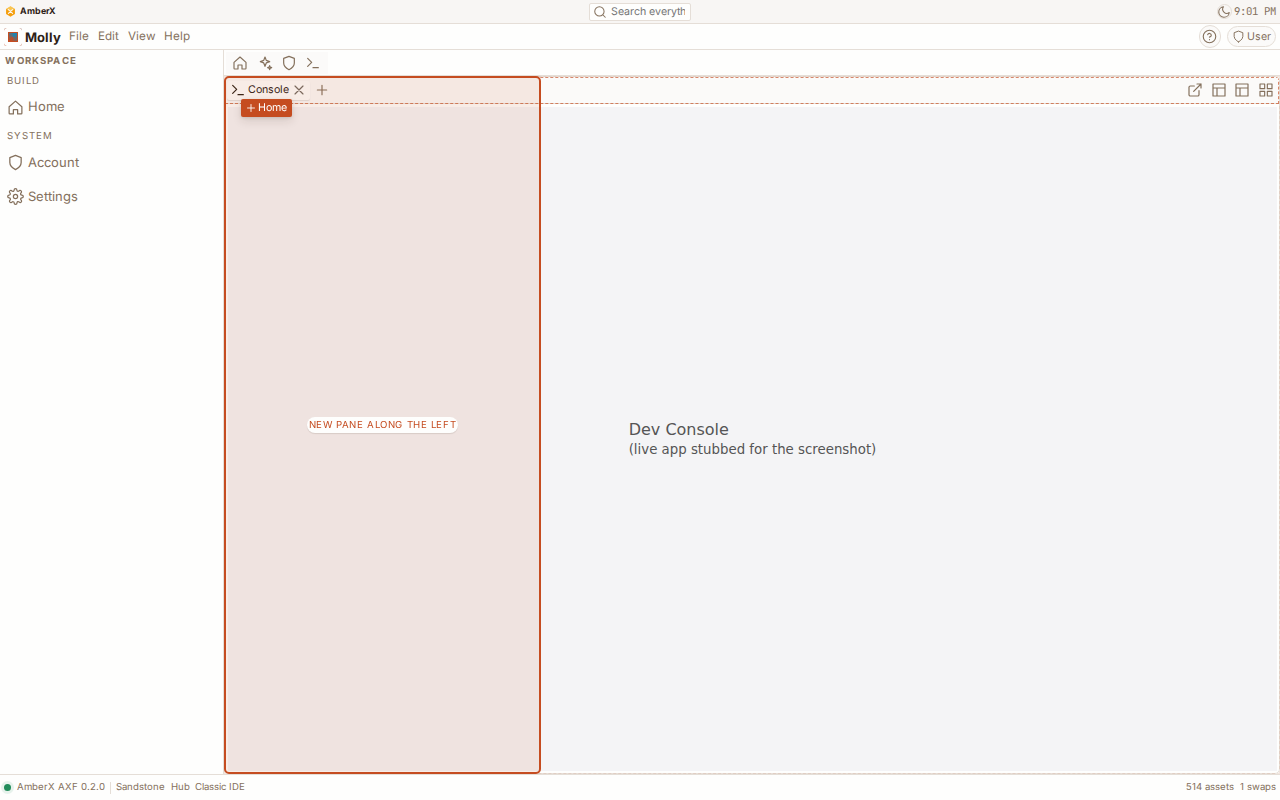
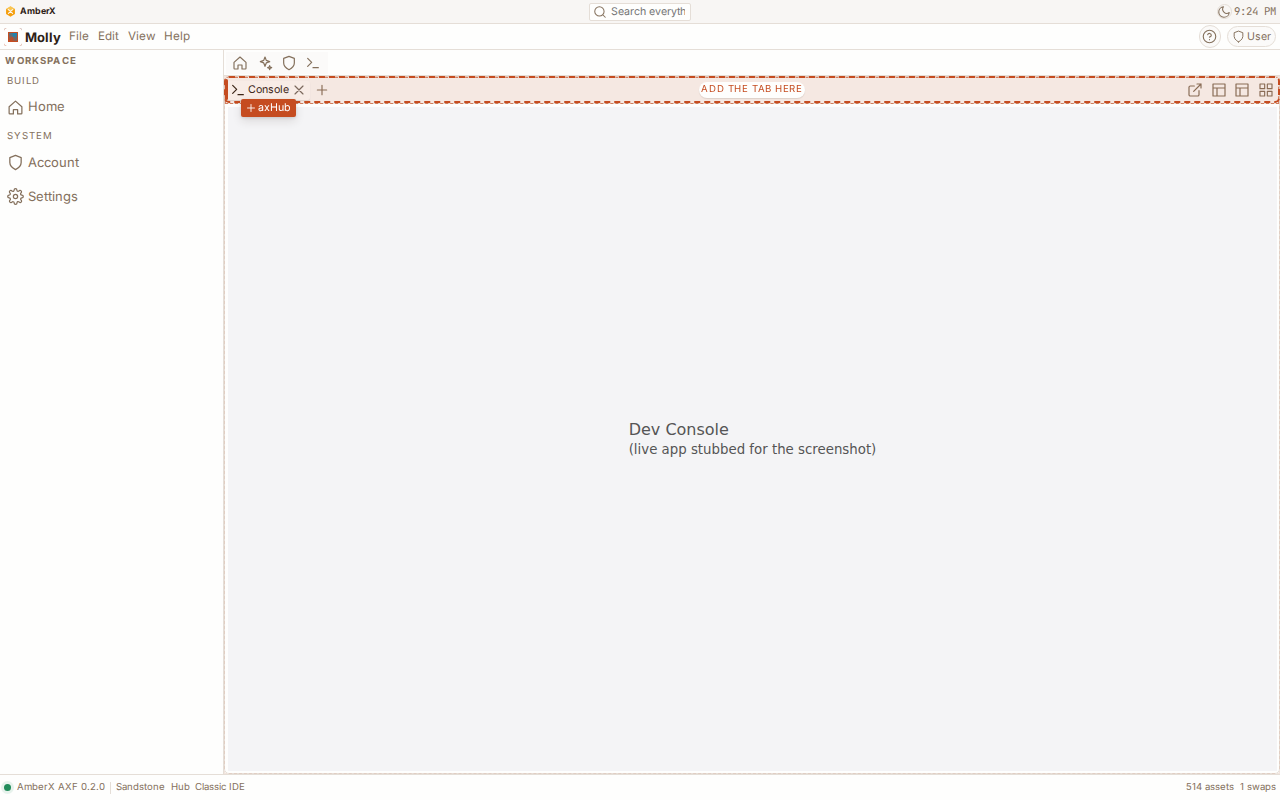
Drag to tab: Molly app launchers drag too; touch hold on a source skips the generic menu; popped-out windows stay on screen

Changed region(s): [[0.5312, 0.0938, 0.625, 0.125], [0.25, 0.5312, 0.3438, 0.5625], [0.1875, 0.125, 0.25, 0.1562]]

diff --git a/apps/molly/plugins/xlayout/web/toolbars.tsx b/apps/molly/plugins/xlayout/web/toolbars.tsx
@@ -9,8 +9,8 @@
 import { useSyncExternalStore, type ReactNode } from 'react';
 import type { AxfRuntime } from '../../../src/axf/core';
 import { openTargetFor, splitNs, TOOLBAR_LOCATIONS, TOOLBAR_SLOT_COUNT, visibleToolbars, type ToolbarLocation, type XToolbarItem } from '../../../src/axf/core/engines/xlayout';
-import { Icon, useAxfState, useRuntime } from '../../../src/axf/react';
-import { MOLLY_APPS } from '../../../src/molly/apps';
+import { Icon, useAxfState, useDragToTab, useRuntime, type DragToTabSource } from '../../../src/axf/react';
+import { MOLLY_APPS, mollyApp } from '../../../src/molly/apps';
 import { appOfView } from '../../../src/molly/host';
 import type { ChromeHost } from './host';
 import { effectiveXLayout } from './model';
@@ -69,9 +69,11 @@ export function runToolbarItem(rt: AxfRuntime, host: ChromeHost, item: XToolbarI
 
 /* ---------- drawing ---------- */
 
-function Btn({ icon, label, badge, pressed, locked, onClick }: { icon: string; label: string; badge?: number; pressed?: boolean; locked?: boolean; onClick: () => void }) {
+function Btn({ icon, label, badge, pressed, locked, onClick, drag }: { icon: string; label: string; badge?: number; pressed?: boolean; locked?: boolean; onClick: () => void; drag?: DragToTabSource | null }) {
+  // drag-to-tab: an app launcher drags into a pane's strip, a pane's edge or out to a window (its next copy when open)
+  const dragProps = useDragToTab(locked ? null : drag ?? null);
   return (
-    <button type="button" className={`fx-toolbtn${pressed ? ' is-on' : ''}`} disabled={locked} aria-pressed={pressed === undefined ? undefined : pressed} title={label} aria-label={badge ? `${label} (${badge})` : label} onClick={onClick}>
+    <button type="button" className={`fx-toolbtn${pressed ? ' is-on' : ''}`} disabled={locked} aria-pressed={pressed === undefined ? undefined : pressed} title={label} aria-label={badge ? `${label} (${badge})` : label} onClick={onClick} {...dragProps}>
       <Icon name={locked ? 'lock' : icon} size={16} />
       {!!badge && <span className="fx-toolbtn__badge" aria-hidden="true">{badge > 99 ? '99+' : badge}</span>}
     </button>
@@ -97,7 +99,7 @@ export function ToolbarEdge({ host, location }: { host: ChromeHost; location: To
     if (!t.items.length && !guest.length) continue;
     out.push(
       <Bar key={`x${t.slot}`} location={location} label={t.label} ctx={`xlayout|*|${t.slot}`}>
-        {t.items.map((it) => <Btn key={it.id} icon={it.icon ?? 'box'} label={it.label} onClick={() => runToolbarItem(rt, host, it)} />)}
+        {t.items.map((it) => <Btn key={it.id} icon={it.icon ?? 'box'} label={it.label} onClick={() => runToolbarItem(rt, host, it)} drag={it.app ? { view: it.app, label: mollyApp(it.app)?.label ?? it.label, icon: it.icon } : null} />)}
         {guest.map((g) => (
           <span key={g.id} className="fx-toolbar__group" role="group" aria-label={g.label}>
             {g.items.map((it) => <Btn key={it.id} icon={it.icon} label={it.label} badge={it.badge} pressed={it.pressed} locked={it.locked} onClick={() => host.run(it.id)} />)}

diff --git a/apps/amberx-droid/src/axf/core/engines/windows.ts b/apps/amberx-droid/src/axf/core/engines/windows.ts
@@ -623,8 +623,14 @@ export class WindowManager {
     const tab = from.tabs.find((t) => t.id === tabId)!;
     this.checkpoint(from.windowId);
     this.closeTab(tabId);
-    const at = x !== undefined && y !== undefined ? { x: Math.max(0, Math.round(x - width / 2)), y: Math.max(0, Math.round(y - 16)) } : null;
+    const at = x !== undefined && y !== undefined ? this.floatAt(x, y, width, height) : null;
     return this.openFloating([tab], tab.title, 'floating', width, height, at?.x, at?.y);
+  }
+  /** Where a window popped out under the pointer goes: centred on it, the title under the finger, kept on screen. */
+  floatAt(x: number, y: number, width: number, height: number): { x: number; y: number } {
+    const vp = this.viewport;
+    const fx = Math.round(x - width / 2), fy = Math.round(y - 16);
+    return { x: Math.max(0, vp ? Math.min(fx, vp.width - width) : fx), y: Math.max(0, vp ? Math.min(fy, vp.height - height) : fy) };
   }
   /**
    * The drag ends: a dock drop zone wins, else the group under the point takes the tab (older hosts), else — let go
@@ -672,8 +678,9 @@ export class WindowManager {
       return changed;
     }
     if (!this.dockRules.floatOut) return false;
-    const width = 640, height = 480;
-    this.openFloating([tab], tab.title, 'floating', width, height, Math.max(0, Math.round(x - width / 2)), Math.max(0, Math.round(y - 16)));
+    const width = Math.min(640, this.viewport?.width ?? 640), height = Math.min(480, this.viewport?.height ?? 480);
+    const pos = this.floatAt(x, y, width, height);
+    this.openFloating([tab], tab.title, 'floating', width, height, pos.x, pos.y);
     this.lastDrop = { kind: 'fresh', tabId: tab.id };
     return true;
   }

diff --git a/apps/axhub-web/src/axf/core/engines/windows.ts b/apps/axhub-web/src/axf/core/engines/windows.ts
@@ -623,8 +623,14 @@ export class WindowManager {
     const tab = from.tabs.find((t) => t.id === tabId)!;
     this.checkpoint(from.windowId);
     this.closeTab(tabId);
-    const at = x !== undefined && y !== undefined ? { x: Math.max(0, Math.round(x - width / 2)), y: Math.max(0, Math.round(y - 16)) } : null;
+    const at = x !== undefined && y !== undefined ? this.floatAt(x, y, width, height) : null;
     return this.openFloating([tab], tab.title, 'floating', width, height, at?.x, at?.y);
+  }
+  /** Where a window popped out under the pointer goes: centred on it, the title under the finger, kept on screen. */
+  floatAt(x: number, y: number, width: number, height: number): { x: number; y: number } {
+    const vp = this.viewport;
+    const fx = Math.round(x - width / 2), fy = Math.round(y - 16);
+    return { x: Math.max(0, vp ? Math.min(fx, vp.width - width) : fx), y: Math.max(0, vp ? Math.min(fy, vp.height - height) : fy) };
   }
   /**
    * The drag ends: a dock drop zone wins, else the group under the point takes the tab (older hosts), else — let go
@@ -672,8 +678,9 @@ export class WindowManager {
       return changed;
     }
     if (!this.dockRules.floatOut) return false;
-    const width = 640, height = 480;
-    this.openFloating([tab], tab.title, 'floating', width, height, Math.max(0, Math.round(x - width / 2)), Math.max(0, Math.round(y - 16)));
+    const width = Math.min(640, this.viewport?.width ?? 640), height = Math.min(480, this.viewport?.height ?? 480);
+    const pos = this.floatAt(x, y, width, height);
+    this.openFloating([tab], tab.title, 'floating', width, height, pos.x, pos.y);
     this.lastDrop = { kind: 'fresh', tabId: tab.id };
     return true;
   }

diff --git a/apps/console-web/src/axf/core/engines/windows.ts b/apps/console-web/src/axf/core/engines/windows.ts
@@ -623,8 +623,14 @@ export class WindowManager {
     const tab = from.tabs.find((t) => t.id === tabId)!;
     this.checkpoint(from.windowId);
     this.closeTab(tabId);
-    const at = x !== undefined && y !== undefined ? { x: Math.max(0, Math.round(x - width / 2)), y: Math.max(0, Math.round(y - 16)) } : null;
+    const at = x !== undefined && y !== undefined ? this.floatAt(x, y, width, height) : null;
     return this.openFloating([tab], tab.title, 'floating', width, height, at?.x, at?.y);
+  }
+  /** Where a window popped out under the pointer goes: centred on it, the title under the finger, kept on screen. */
+  floatAt(x: number, y: number, width: number, height: number): { x: number; y: number } {
+    const vp = this.viewport;
+    const fx = Math.round(x - width / 2), fy = Math.round(y - 16);
+    return { x: Math.max(0, vp ? Math.min(fx, vp.width - width) : fx), y: Math.max(0, vp ? Math.min(fy, vp.height - height) : fy) };
   }
   /**
    * The drag ends: a dock drop zone wins, else the group under the point takes the tab (older hosts), else — let go
@@ -672,8 +678,9 @@ export class WindowManager {
       return changed;
     }
     if (!this.dockRules.floatOut) return false;
-    const width = 640, height = 480;
-    this.openFloating([tab], tab.title, 'floating', width, height, Math.max(0, Math.round(x - width / 2)), Math.max(0, Math.round(y - 16)));
+    const width = Math.min(640, this.viewport?.width ?? 640), height = Math.min(480, this.viewport?.height ?? 480);
+    const pos = this.floatAt(x, y, width, height);
+    this.openFloating([tab], tab.title, 'floating', width, height, pos.x, pos.y);
     this.lastDrop = { kind: 'fresh', tabId: tab.id };
     return true;
   }

diff --git a/apps/molly/src/axf/core/engines/windows.ts b/apps/molly/src/axf/core/engines/windows.ts
@@ -623,8 +623,14 @@ export class WindowManager {
     const tab = from.tabs.find((t) => t.id === tabId)!;
     this.checkpoint(from.windowId);
     this.closeTab(tabId);
-    const at = x !== undefined && y !== undefined ? { x: Math.max(0, Math.round(x - width / 2)), y: Math.max(0, Math.round(y - 16)) } : null;
+    const at = x !== undefined && y !== undefined ? this.floatAt(x, y, width, height) : null;
     return this.openFloating([tab], tab.title, 'floating', width, height, at?.x, at?.y);
+  }
+  /** Where a window popped out under the pointer goes: centred on it, the title under the finger, kept on screen. */
+  floatAt(x: number, y: number, width: number, height: number): { x: number; y: number } {
+    const vp = this.viewport;
+    const fx = Math.round(x - width / 2), fy = Math.round(y - 16);
+    return { x: Math.max(0, vp ? Math.min(fx, vp.width - width) : fx), y: Math.max(0, vp ? Math.min(fy, vp.height - height) : fy) };
   }
   /**
    * The drag ends: a dock drop zone wins, else the group under the point takes the tab (older hosts), else — let go
@@ -672,8 +678,9 @@ export class WindowManager {
       return changed;
     }
     if (!this.dockRules.floatOut) return false;
-    const width = 640, height = 480;
-    this.openFloating([tab], tab.title, 'floating', width, height, Math.max(0, Math.round(x - width / 2)), Math.max(0, Math.round(y - 16)));
+    const width = Math.min(640, this.viewport?.width ?? 640), height = Math.min(480, this.viewport?.height ?? 480);
+    const pos = this.floatAt(x, y, width, height);
+    this.openFloating([tab], tab.title, 'floating', width, height, pos.x, pos.y);
     this.lastDrop = { kind: 'fresh', tabId: tab.id };
     return true;
   }

diff --git a/framework/core/engines/windows.ts b/framework/core/engines/windows.ts
@@ -623,8 +623,14 @@ export class WindowManager {
     const tab = from.tabs.find((t) => t.id === tabId)!;
     this.checkpoint(from.windowId);
     this.closeTab(tabId);
-    const at = x !== undefined && y !== undefined ? { x: Math.max(0, Math.round(x - width / 2)), y: Math.max(0, Math.round(y - 16)) } : null;
+    const at = x !== undefined && y !== undefined ? this.floatAt(x, y, width, height) : null;
     return this.openFloating([tab], tab.title, 'floating', width, height, at?.x, at?.y);
+  }
+  /** Where a window popped out under the pointer goes: centred on it, the title under the finger, kept on screen. */
+  floatAt(x: number, y: number, width: number, height: number): { x: number; y: number } {
+    const vp = this.viewport;
+    const fx = Math.round(x - width / 2), fy = Math.round(y - 16);
+    return { x: Math.max(0, vp ? Math.min(fx, vp.width - width) : fx), y: Math.max(0, vp ? Math.min(fy, vp.height - height) : fy) };
   }
   /**
    * The drag ends: a dock drop zone wins, else the group under the point takes the tab (older hosts), else — let go
@@ -672,8 +678,9 @@ export class WindowManager {
       return changed;
     }
     if (!this.dockRules.floatOut) return false;
-    const width = 640, height = 480;
-    this.openFloating([tab], tab.title, 'floating', width, height, Math.max(0, Math.round(x - width / 2)), Math.max(0, Math.round(y - 16)));
+    const width = Math.min(640, this.viewport?.width ?? 640), height = Math.min(480, this.viewport?.height ?? 480);
+    const pos = this.floatAt(x, y, width, height);
+    this.openFloating([tab], tab.title, 'floating', width, height, pos.x, pos.y);
     this.lastDrop = { kind: 'fresh', tabId: tab.id };
     return true;
   }

diff --git a/apps/amberx-droid/src/axf/react/components/Overlays.tsx b/apps/amberx-droid/src/axf/react/components/Overlays.tsx
@@ -187,6 +187,7 @@ export function ContextMenuHost() {
     const onCtx = (e: MouseEvent) => {
       // A touch long-press also fires the browser's own contextmenu: the long-press timer handles it, once.
       if (start) { e.preventDefault(); return; }
+      if (srcHold) { srcHold = false; e.preventDefault(); return; }
       const t = e.target as Element;
       // A banner (outside the shell, in a box that otherwise ignores the menu) is always a target: Banner settings.
       const banner = !!t.closest('[data-fx-ctx-target="axf-banner"], [data-fx-ctx-target="banner"]') && !t.closest('input, textarea, .fx-ctx');
@@ -200,7 +201,12 @@ export function ContextMenuHost() {
     // Long-press for touch devices
     let timer: ReturnType<typeof setTimeout> | undefined;
     let start: { x: number; y: number } | null = null;
+    let srcHold = false;
     const onDown = (e: PointerEvent) => {
+      // a drag-to-tab source runs its own hold (then drag, or its menu when let go in place: react/windows/dragToTab.ts),
+      // and the browser's contextmenu that hold fires is not this one's either
+      srcHold = e.pointerType === 'touch' && !!(e.target as Element | null)?.closest?.('[data-fx-tab-source]');
+      if (srcHold) return;
       if (e.pointerType !== 'touch' || (rt.slotHidden('context-menu') && !rt.hostTakes('context-menu'))) return;
       const t = e.target as Element;
       const banner = !!t.closest('[data-fx-ctx-target="axf-banner"], [data-fx-ctx-target="banner"]') && !t.closest('input, textarea, .fx-ctx');

diff --git a/apps/axhub-web/src/axf/react/components/Overlays.tsx b/apps/axhub-web/src/axf/react/components/Overlays.tsx
@@ -187,6 +187,7 @@ export function ContextMenuHost() {
     const onCtx = (e: MouseEvent) => {
       // A touch long-press also fires the browser's own contextmenu: the long-press timer handles it, once.
       if (start) { e.preventDefault(); return; }
+      if (srcHold) { srcHold = false; e.preventDefault(); return; }
       const t = e.target as Element;
       // A banner (outside the shell, in a box that otherwise ignores the menu) is always a target: Banner settings.
       const banner = !!t.closest('[data-fx-ctx-target="axf-banner"], [data-fx-ctx-target="banner"]') && !t.closest('input, textarea, .fx-ctx');
@@ -200,7 +201,12 @@ export function ContextMenuHost() {
     // Long-press for touch devices
     let timer: ReturnType<typeof setTimeout> | undefined;
     let start: { x: number; y: number } | null = null;
+    let srcHold = false;
     const onDown = (e: PointerEvent) => {
+      // a drag-to-tab source runs its own hold (then drag, or its menu when let go in place: react/windows/dragToTab.ts),
+      // and the browser's contextmenu that hold fires is not this one's either
+      srcHold = e.pointerType === 'touch' && !!(e.target as Element | null)?.closest?.('[data-fx-tab-source]');
+      if (srcHold) return;
       if (e.pointerType !== 'touch' || (rt.slotHidden('context-menu') && !rt.hostTakes('context-menu'))) return;
       const t = e.target as Element;
       const banner = !!t.closest('[data-fx-ctx-target="axf-banner"], [data-fx-ctx-target="banner"]') && !t.closest('input, textarea, .fx-ctx');

diff --git a/apps/console-web/src/axf/react/components/Overlays.tsx b/apps/console-web/src/axf/react/components/Overlays.tsx
@@ -187,6 +187,7 @@ export function ContextMenuHost() {
     const onCtx = (e: MouseEvent) => {
       // A touch long-press also fires the browser's own contextmenu: the long-press timer handles it, once.
       if (start) { e.preventDefault(); return; }
+      if (srcHold) { srcHold = false; e.preventDefault(); return; }
       const t = e.target as Element;
       // A banner (outside the shell, in a box that otherwise ignores the menu) is always a target: Banner settings.
       const banner = !!t.closest('[data-fx-ctx-target="axf-banner"], [data-fx-ctx-target="banner"]') && !t.closest('input, textarea, .fx-ctx');
@@ -200,7 +201,12 @@ export function ContextMenuHost() {
     // Long-press for touch devices
     let timer: ReturnType<typeof setTimeout> | undefined;
     let start: { x: number; y: number } | null = null;
+    let srcHold = false;
     const onDown = (e: PointerEvent) => {
+      // a drag-to-tab source runs its own hold (then drag, or its menu when let go in place: react/windows/dragToTab.ts),
+      // and the browser's contextmenu that hold fires is not this one's either
+      srcHold = e.pointerType === 'touch' && !!(e.target as Element | null)?.closest?.('[data-fx-tab-source]');
+      if (srcHold) return;
       if (e.pointerType !== 'touch' || (rt.slotHidden('context-menu') && !rt.hostTakes('context-menu'))) return;
       const t = e.target as Element;
       const banner = !!t.closest('[data-fx-ctx-target="axf-banner"], [data-fx-ctx-target="banner"]') && !t.closest('input, textarea, .fx-ctx');

diff --git a/apps/molly/src/axf/react/components/Overlays.tsx b/apps/molly/src/axf/react/components/Overlays.tsx
@@ -187,6 +187,7 @@ export function ContextMenuHost() {
     const onCtx = (e: MouseEvent) => {
       // A touch long-press also fires the browser's own contextmenu: the long-press timer handles it, once.
       if (start) { e.preventDefault(); return; }
+      if (srcHold) { srcHold = false; e.preventDefault(); return; }
       const t = e.target as Element;
       // A banner (outside the shell, in a box that otherwise ignores the menu) is always a target: Banner settings.
       const banner = !!t.closest('[data-fx-ctx-target="axf-banner"], [data-fx-ctx-target="banner"]') && !t.closest('input, textarea, .fx-ctx');
@@ -200,7 +201,12 @@ export function ContextMenuHost() {
     // Long-press for touch devices
     let timer: ReturnType<typeof setTimeout> | undefined;
     let start: { x: number; y: number } | null = null;
+    let srcHold = false;
     const onDown = (e: PointerEvent) => {
+      // a drag-to-tab source runs its own hold (then drag, or its menu when let go in place: react/windows/dragToTab.ts),
+      // and the browser's contextmenu that hold fires is not this one's either
+      srcHold = e.pointerType === 'touch' && !!(e.target as Element | null)?.closest?.('[data-fx-tab-source]');
+      if (srcHold) return;
       if (e.pointerType !== 'touch' || (rt.slotHidden('context-menu') && !rt.hostTakes('context-menu'))) return;
       const t = e.target as Element;
       const banner = !!t.closest('[data-fx-ctx-target="axf-banner"], [data-fx-ctx-target="banner"]') && !t.closest('input, textarea, .fx-ctx');

diff --git a/framework/react/components/Overlays.tsx b/framework/react/components/Overlays.tsx
@@ -187,6 +187,7 @@ export function ContextMenuHost() {
     const onCtx = (e: MouseEvent) => {
       // A touch long-press also fires the browser's own contextmenu: the long-press timer handles it, once.
       if (start) { e.preventDefault(); return; }
+      if (srcHold) { srcHold = false; e.preventDefault(); return; }
       const t = e.target as Element;
       // A banner (outside the shell, in a box that otherwise ignores the menu) is always a target: Banner settings.
       const banner = !!t.closest('[data-fx-ctx-target="axf-banner"], [data-fx-ctx-target="banner"]') && !t.closest('input, textarea, .fx-ctx');
@@ -200,7 +201,12 @@ export function ContextMenuHost() {
     // Long-press for touch devices
     let timer: ReturnType<typeof setTimeout> | undefined;
     let start: { x: number; y: number } | null = null;
+    let srcHold = false;
     const onDown = (e: PointerEvent) => {
+      // a drag-to-tab source runs its own hold (then drag, or its menu when let go in place: react/windows/dragToTab.ts),
+      // and the browser's contextmenu that hold fires is not this one's either
+      srcHold = e.pointerType === 'touch' && !!(e.target as Element | null)?.closest?.('[data-fx-tab-source]');
+      if (srcHold) return;
       if (e.pointerType !== 'touch' || (rt.slotHidden('context-menu') && !rt.hostTakes('context-menu'))) return;
       const t = e.target as Element;
       const banner = !!t.closest('[data-fx-ctx-target="axf-banner"], [data-fx-ctx-target="banner"]') && !t.closest('input, textarea, .fx-ctx');

diff --git a/_claude/builds/reports/drag-to-tab.md b/_claude/builds/reports/drag-to-tab.md
@@ -25,7 +25,8 @@ with it), and a moved tab goes back. Tab moves from #328 now get the same Undo t
 **Phone:** hold about half a second (short buzz, the row lights up), then drag. A quick swipe still scrolls, and a
 hold let go in place opens the item's menu. Tested with real touch events (CDP) on a 412 × 915 viewport.
 
-**Molly:** dragging one of its apps opens that app's own tab (its own frame). With IDE mode off, the app on screen
+**Molly:** its app row (the AmberX / axHub / Console icons above the panes) drags too, and dragging one of its apps
+opens that app's own tab (its own frame). With IDE mode off, the app on screen
 counts as open, so a drop opens a second copy instead of taking its frame. The copy cap is xLayout's
 `maxInstances`.
 
@@ -50,7 +51,13 @@ Nothing from either was redone.
 - **React**: `react/windows/dragToTab.ts` (`dragToTabDown`, `dragToTabClick`, `useDragToTab`, `toastDrop`); nav items
   in `Chrome.tsx` / `NavTree.tsx` are drag sources; `DockDropOverlay` draws the strip caret and the *Open here* fill;
   the ghost shows `+ <name>` for a new tab; `[data-fx-tab-drag]` CSS marks (tokens only).
-- **Molly**: xLayout sets `navTab` / `extraOpen` / `maxInstances` (`navTabOf`, `mainAreaTabs` in `workspace.tsx`).
+- **Molly**: xLayout sets `navTab` / `extraOpen` / `maxInstances` (`navTabOf`, `mainAreaTabs` in `workspace.tsx`);
+  its app launcher buttons (`toolbars.tsx`) are drag sources.
+- **Long-press menu** (`Overlays.tsx` ContextMenuHost): a touch hold on a drag-to-tab source no longer opens the
+  generic context menu (and the browser's own contextmenu from that hold is swallowed); the source opens its own menu
+  when the hold is let go in place.
+- **Windows popped out under the pointer stay on screen** (`WindowManager.floatAt`, used by drops and by #328's
+  `floatTab`): before, a tab let go near the bottom edge opened a window mostly below the screen.
 - **Re-baked**: console-web, Molly, axHub web and AmberX (axHub web and AmberX were stale since #327/#328; re-baking
   them brings drag-to-tab there too). All four typecheck clean.
 - **Help**: 16 framework help entries written (15 from #327/#328's new controls that were below the 100% ratchet, plus
@@ -61,17 +68,19 @@ Nothing from either was redone.
 
 | Check | Before | After |
 | --- | --- | --- |
-| `check-dock.mts` | 1747 checks | 1815 checks, ok (fresh drops + WindowManager drag-to-tab flow: empty dock, strip index, next copy, pane edge, float, cancel, cap, host hook, undo of each) |
+| `check-dock.mts` | 1747 checks | 1816 checks, ok (fresh drops + WindowManager drag-to-tab flow: empty dock, strip index, next copy, pane edge, float, cancel, cap, host hook, undo of each, window kept on screen) |
 | `check-windows.mts` | 424 checks | 433 checks, ok (`navItemTab`, `freshTab`) |
 | `check-xlayout` / `check-embed` / `check-console-commands` | ok | ok |
 | tsc console-web / Molly / axHub web / AmberX | n/a | clean |
 | check-theme / controls / toolbars / chrome-assets / shared-assets / help-coverage / ui-review | ok | ok |
+| `check-agent-card.mts` | failing on the base (#327 regenerated the fixture and dropped the hand-patched avatar cases) | 84 checks, ok (the avatar cases are now generated by `gen-fixtures.mts`, identical to main's) |
+| Molly in a browser (Playwright, desktop mouse + phone touch via CDP) | n/a | strip drop, Undo, pane-edge split, Console 2, floating window: all as expected on both |
 
 ## Screenshots
 
 `_claude/builds/reports/drag-to-tab/shots/` (Molly, desktop 1280 × 800 and phone 412 × 915, live apps stubbed):
-over the strip (caret), over a pane edge (split), dropped (new tab + Undo toast), after Undo, a split drop, and the
-armed row on the phone. Sent to UI Review as non-blocking screenshots (group `drag-to-tab - Nov 4`).
+0 armed (phone), 1 over the strip, 2 over a pane edge (split), 3 dropped (new tab + Undo toast), 4 after Undo,
+5 split drop, 6 the open Console dragged again (Console 2), 7 over nothing, 8 the floating window. Sent to UI Review as non-blocking screenshots (group `drag-to-tab - Nov 4`).
 
 ## Not done
 
